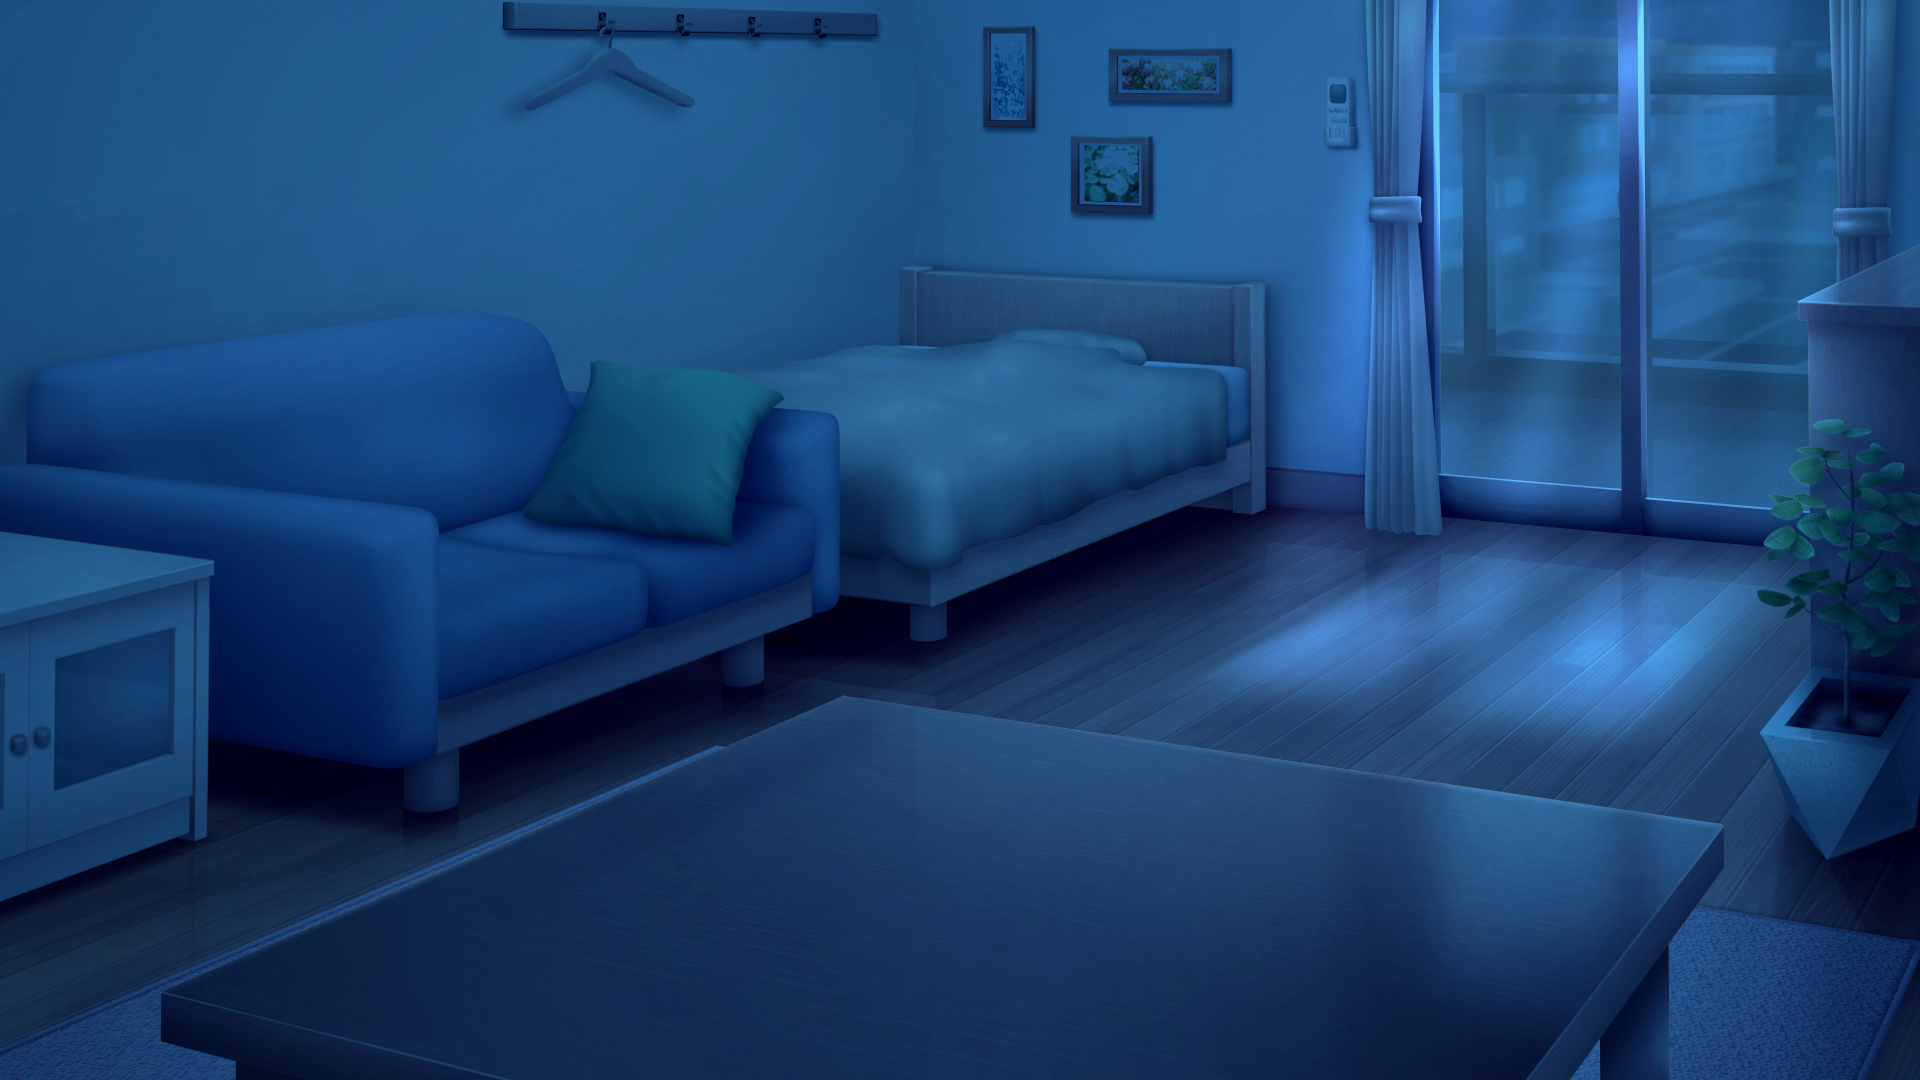
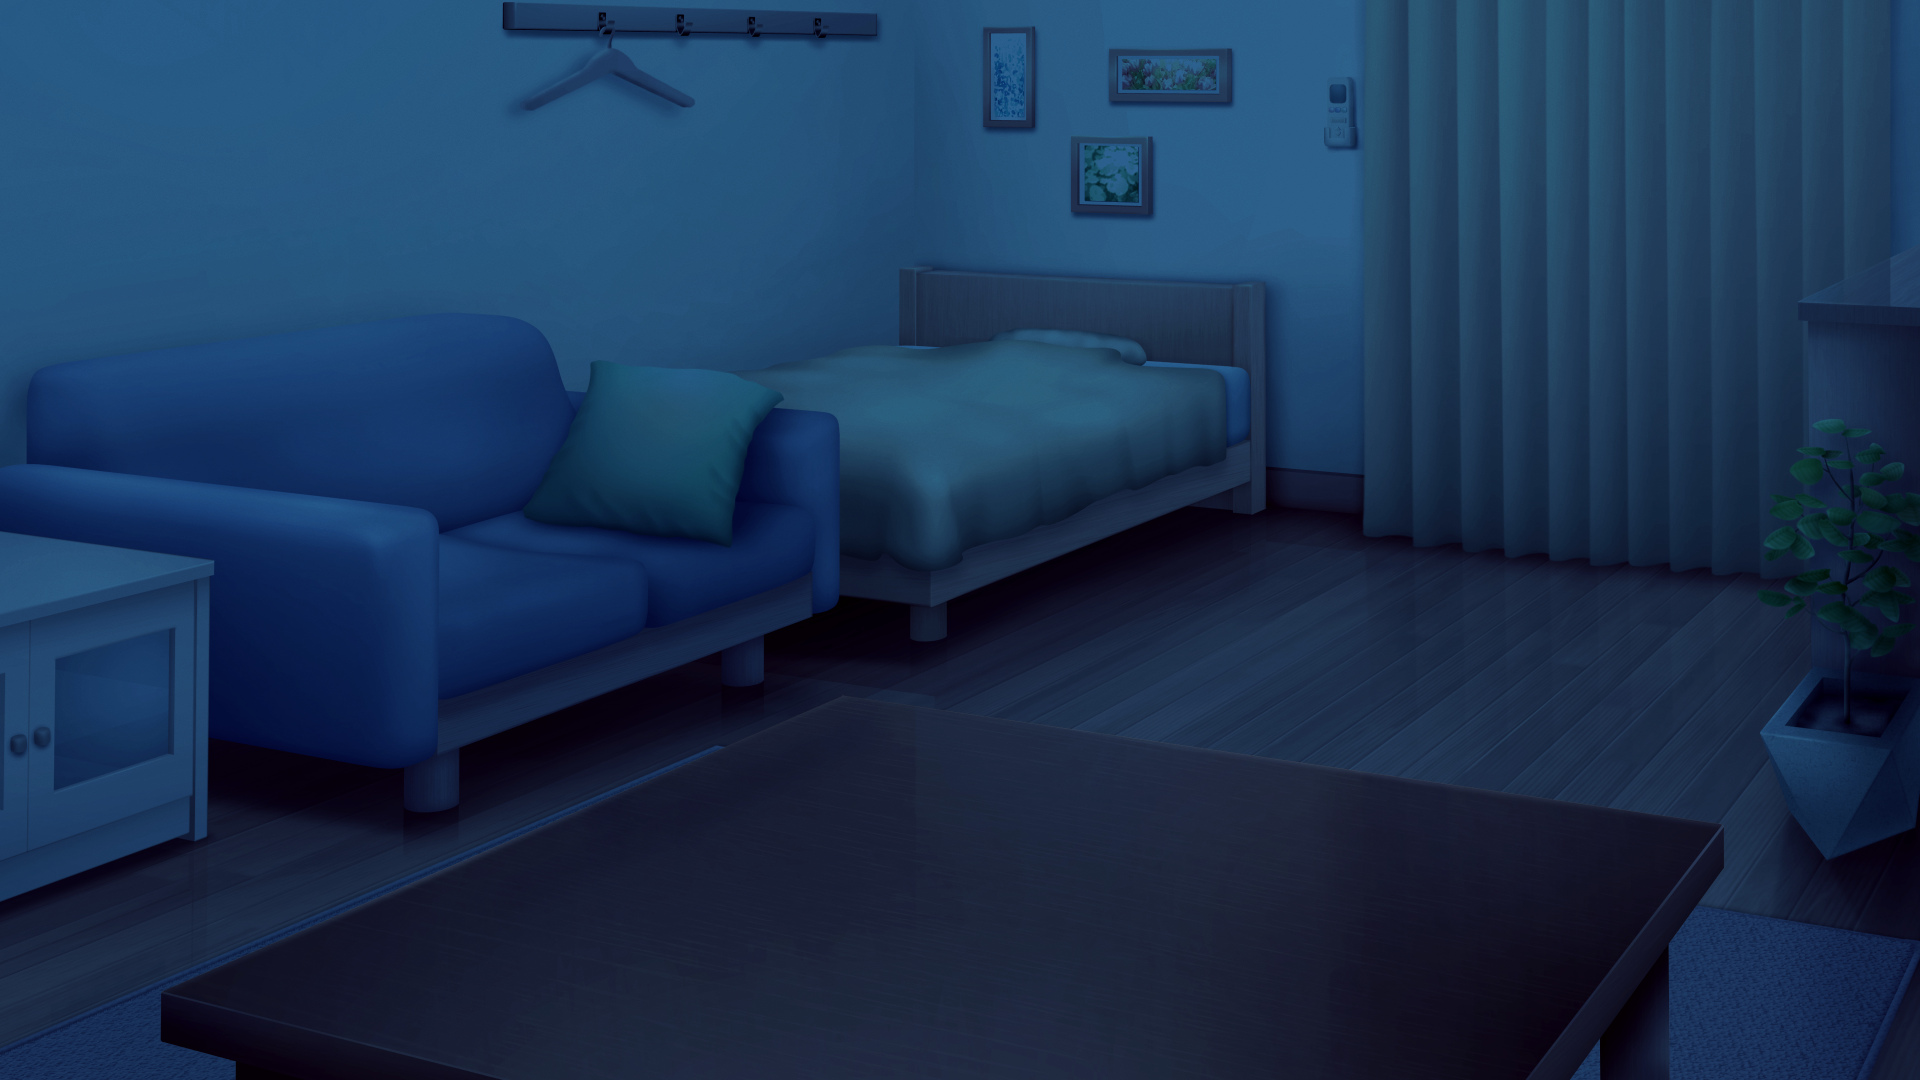
部屋新規登録画面編集

diff --git a/app/javascript/stylesheets/application.scss b/app/javascript/stylesheets/application.scss
@@ -1,18 +1,62 @@
 @import '~bootstrap/scss/bootstrap';
 
+body {
+  /* TODO : ヘッダーとフッターの高さを変更したらここも変更 */
+  padding-top: 88px;
+  padding-bottom: 50px;
+}
+
+.room-new {
+  /* 画像ファイルの指定 */
+  background-image: url(../images/room_new.jpg);
+
+  /* 画像を常に天地左右の中央に配置 */
+  background-position: center center;
+
+  /* 画像をタイル状に繰り返し表示しない */
+  background-repeat: no-repeat;
+
+  /* コンテンツの高さが画像の高さより大きい時、動かないように固定 */
+  background-attachment: fixed;
+
+  /* 表示するコンテナの大きさに基づいて、背景画像を調整 */
+  background-size: cover;
+
+  /* 背景画像が読み込まれる前に表示される背景のカラー */
+  background-color: #464646;
+
+  /* TODO : ヘッダーとフッターの高さを変更したらここも変更 */
+  height: calc(100vh - 88px - 50px);
+}
+
 .room-noon {
   background-image: url(../images/room_noon.jpg);
+  background-position: center center;
+  background-repeat: no-repeat;
+  background-attachment: fixed;
   background-size: cover;
+  background-color: #464646;
+  height: calc(100vh - 88px - 50px);
 }
 
 .room-evening {
   background-image: url(../images/room_evening.jpg);
+  background-position: center center;
+  background-repeat: no-repeat;
+  background-attachment: fixed;
   background-size: cover;
+  background-color: #464646;
+  height: calc(100vh - 88px - 50px);
 }
 
 .room-night {
   background-image: url(../images/room_night.jpg);
+  background-position: center center;
+  background-repeat: no-repeat;
+  background-attachment: fixed;
   background-size: cover;
+  background-color: #464646;
+  height: calc(100vh - 88px - 50px);
 }
 
 .title-myshow {

diff --git a/config/routes.rb b/config/routes.rb
@@ -9,7 +9,7 @@ Rails.application.routes.draw do
     root :to =>"homes#top"
     get "about"=>"homes#about"
 
-    resources :rooms, only: [:index,:show,:new,:edit,:update,:destroy]
+    resources :rooms, only: [:index,:show,:new,:create,:edit,:update,:destroy]
 
     get 'customers/unsubscribe' => 'customers#unsubscribe'
     patch 'customers/withdraw' => 'customers#withdraw'
